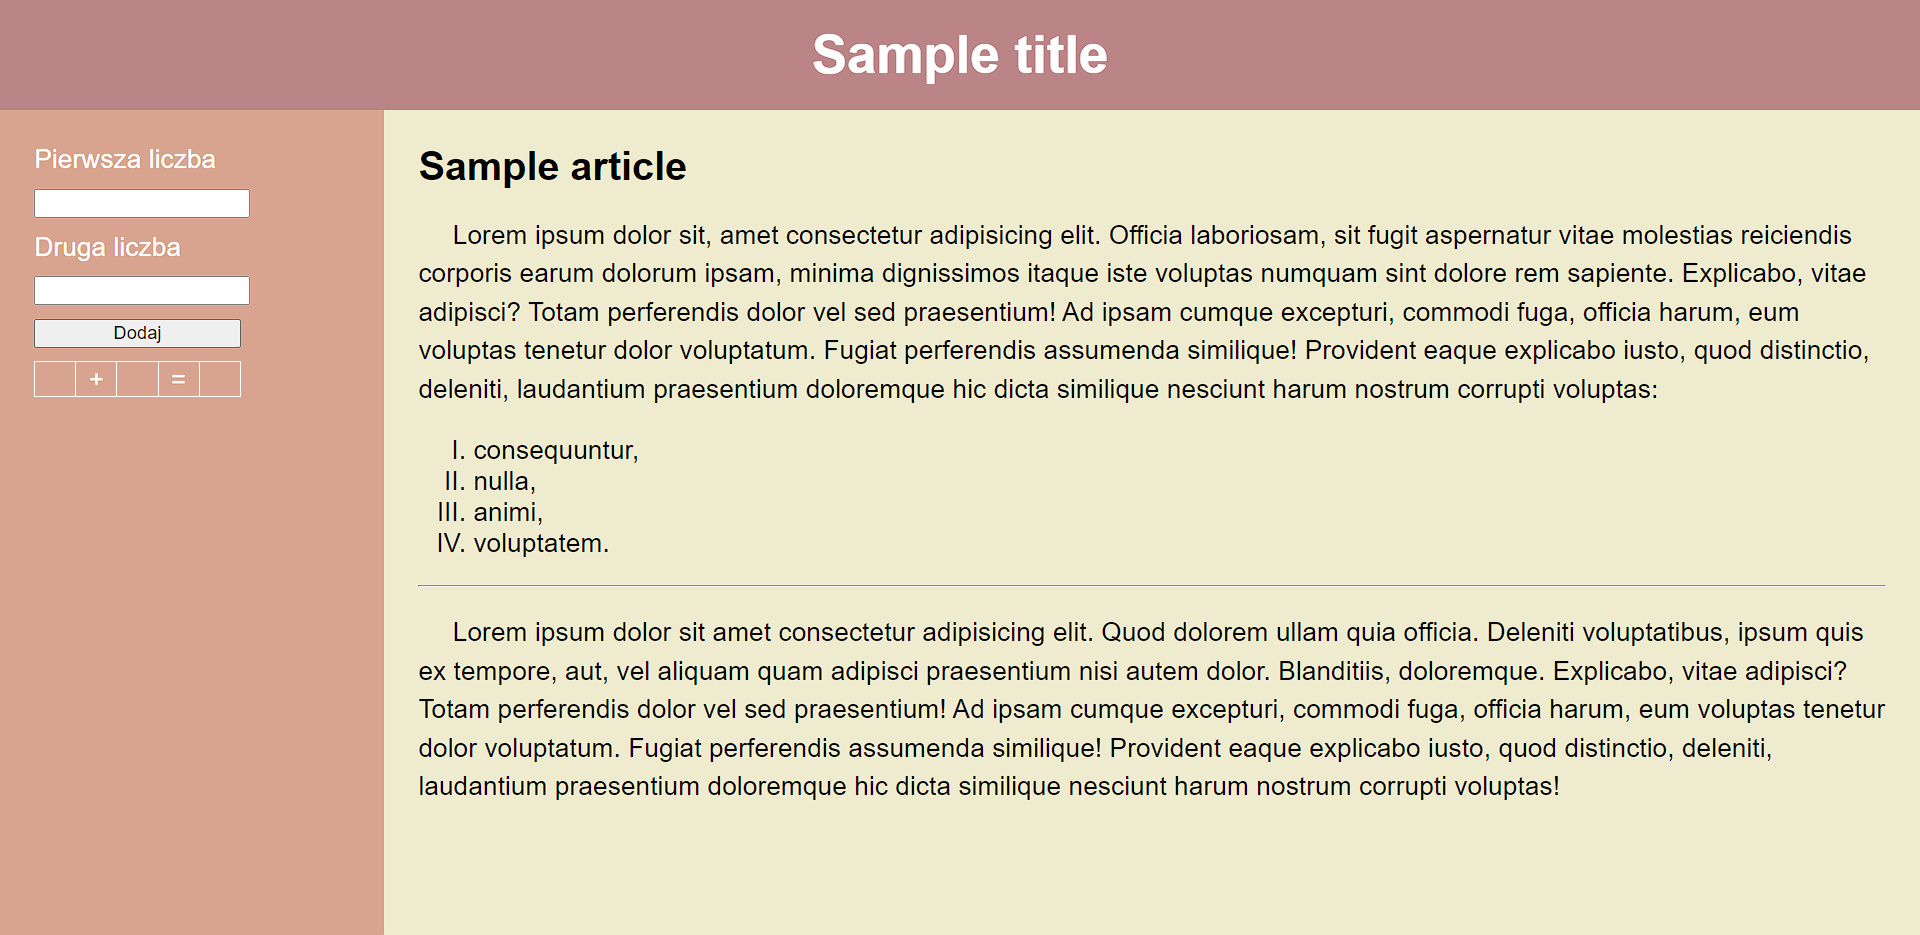
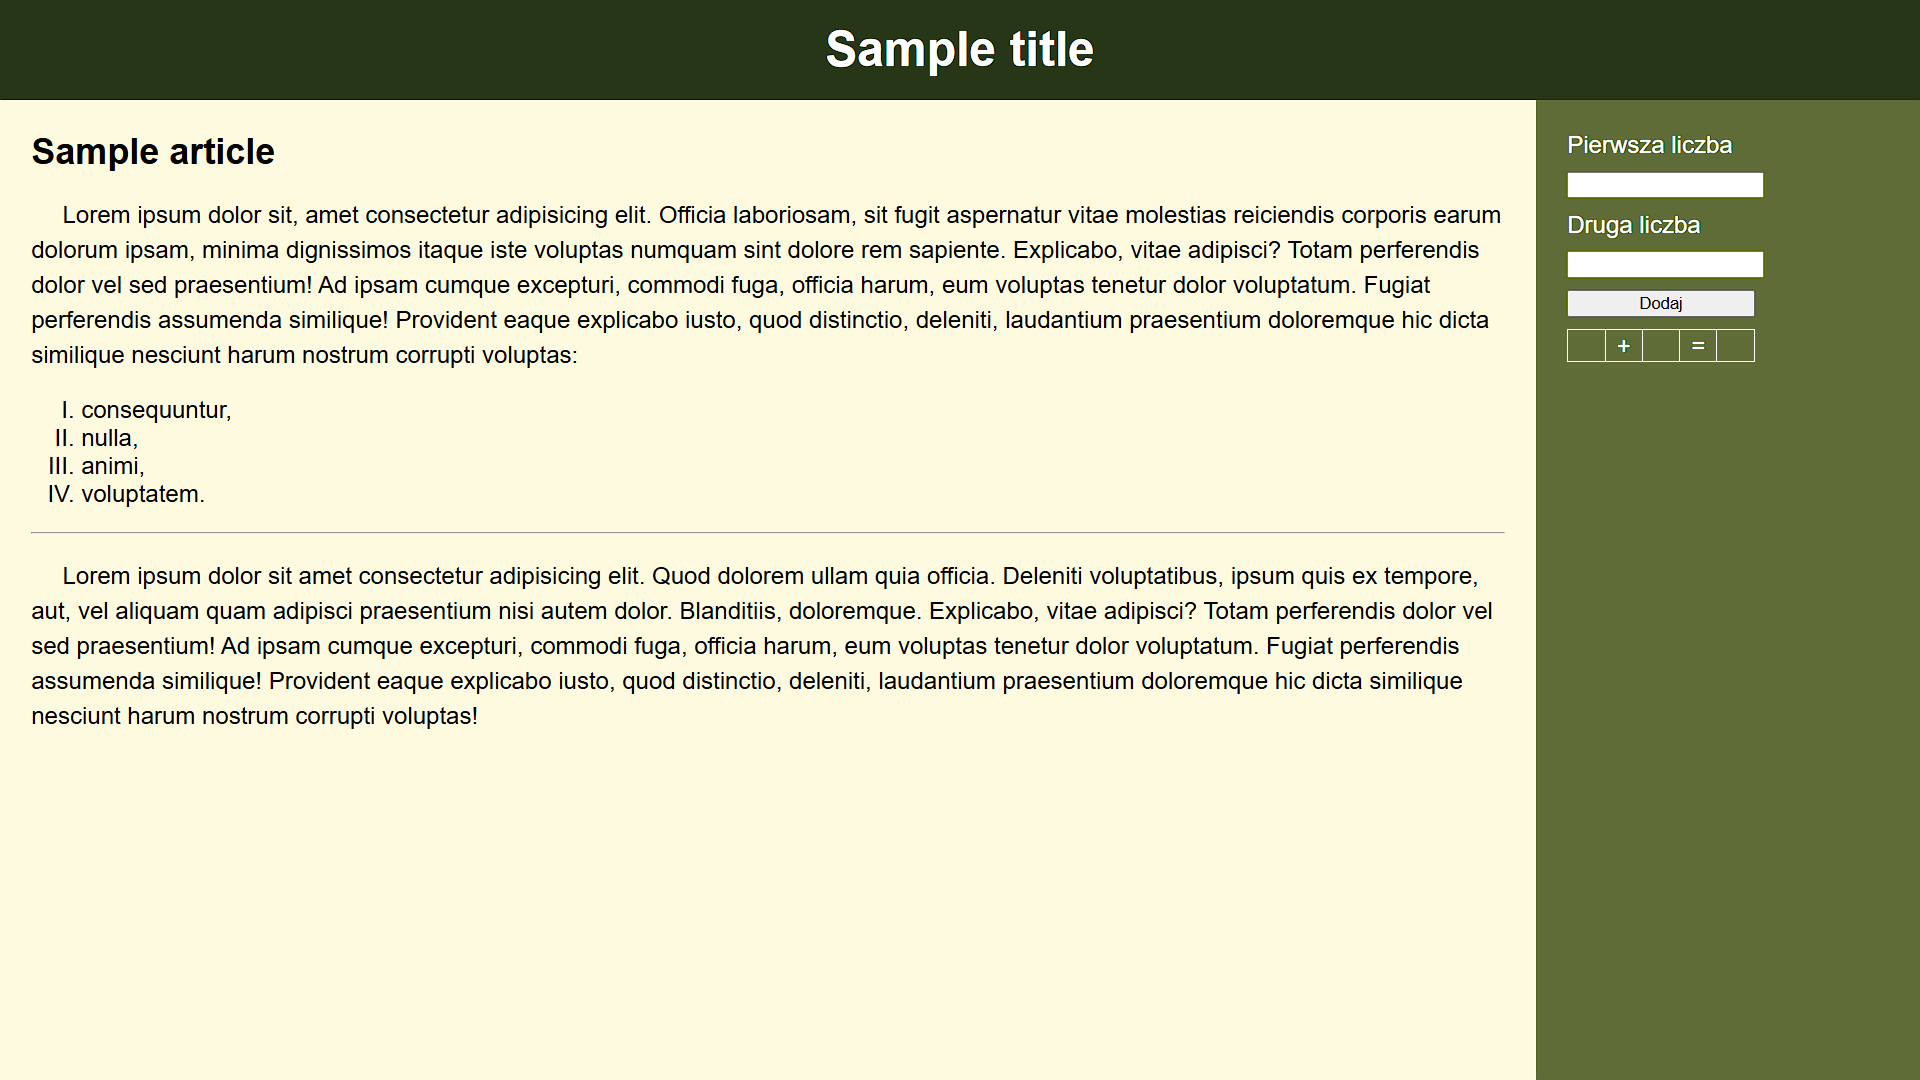
Update project 0

diff --git a/p0/readMe.md b/p0/readMe.md
@@ -9,33 +9,25 @@
 * Prawidłowo połączony zewnętrzny arkusz stylów.
 * Witryna jest podzielona na semantyczne elementy blokowe.
 * U góry witryny znajduje się belka górna zawierająca nagłówek pierwszego stopnia.
-* Poniżej leży część główna, a w niej formularz oraz artykuł.
-* W skład formularza wchodzą dwa pola wejściowe typu liczbowego poprzedzone poprawnie połączonymi etykietami, przycisk i jednowierszowa tabela posiadająca pięć komórek. Wewnątrz drugiej komórki znajduje się znak `+`, a wewnątrz czwartej `=`.
+* Poniżej leży część główna, a w niej artykuł oraz formularz.
 * W artykule jest nagłówek drugiego rzędu, akapit, czteroelementowa lista uporządkowana, pozioma linia oraz kolejny akapit.
+* W skład formularza wchodzą dwa pola wejściowe typu liczbowego poprzedzone poprawnie połączonymi etykietami, przycisk i jednowierszowa tabela posiadająca pięć komórek. Wewnątrz drugiej komórki znajduje się znak `+`, a wewnątrz czwartej `=`.
 
 ## Wygląd
 
 * Strona powinna w jak największym stopniu przypominać załączoną grafikę.
 * Style zdefiniowane w oddzielnym pliku CSS o nazwie **main** i odpowiednim rozszerzeniu.
-* Znacznik `body` i nagłówek pierwszego i drugiego poziomu mają wyzerowany margines zewnętrzny.
+* Znacznik `body` oraz nagłówek pierwszego i drugiego poziomu mają wyzerowany margines zewnętrzny.
 * Znacznik `body`:
     * Krój czcionki: **'Trbuchet MS', sans-serif**.
     * Rozmiar czcionki: *"większy"*.
 * Belka górna:
     * Wysokość: *80 pikseli*,
-    * Kolor tła: *BB8588<sub>16</sub>*,
+    * Kolor tła: *283618<sub>16</sub>*,
     * Wysokość linii: *80 pikseli*,
     * Wyrównanie tekstu do środka,
     * Biały kolor czcionki.
-* Część główna posiada wysokość równą *600px*.
-* Formularz:
-    * Szerokość: *25 procent*,
-    * Margines wewnętrzny: *25 pikseli*,
-    * Kolor tła: *D8A48F<sub>16</sub>*,
-    * Biały kolor czcionki,
-* Formularz, artykuł:
-    * Wysokość: *100 procent*,
-    * zmiana sposobu obliczania wysokości i szerokości na uwzględniający obramowania i marginesy wewnętrzne - `box-sizing` o odpowiedniej wartości.
+* Artykuł, formularz - zmiana sposobu obliczania wysokości i szerokości na uwzględniający obramowania i marginesy wewnętrzne - `box-sizing` o odpowiedniej wartości.
 * Pole wejściowe, etykieta, przycisk, tabela - szerokość: *150 pikseli*.
 * Pole wejściowe, etykieta, przycisk:
     * Blokowy sposób wyświetlania - `display`,
@@ -49,15 +41,20 @@
 * Artykuł:
     * Szerokość: *80 procent*,
     * Margines wewnętrzny: *20 pikseli*,
-    * Kolor tła: *EFEBCE<sub>16</sub>*.
+    * Kolor tła: *fefae0<sub>16</sub>*.
 * Akapit:
     * Wcięcie tekstu: *25 pikseli*,
     * Wysokość linii: *28 pikseli*.
 * Lista - styl punktorów: *wielkie rzymskie liczby*.
+* Formularz:
+    * Szerokość: *20 procent*,
+    * Margines wewnętrzny: *25 pikseli*,
+    * Kolor tła: *606c38<sub>16</sub>*,
+    * Biały kolor czcionki.
 
 ---
 
-Style pozwalające na odpowiednie ułożenie danych elementów należy dobrać samodzielnie - `float`.
+Style pozwalające na odpowiednie ułożenie danych elementów należy dobrać samodzielnie - `flex`.
 
 ### Oczekiwany wygląd witryny
 
